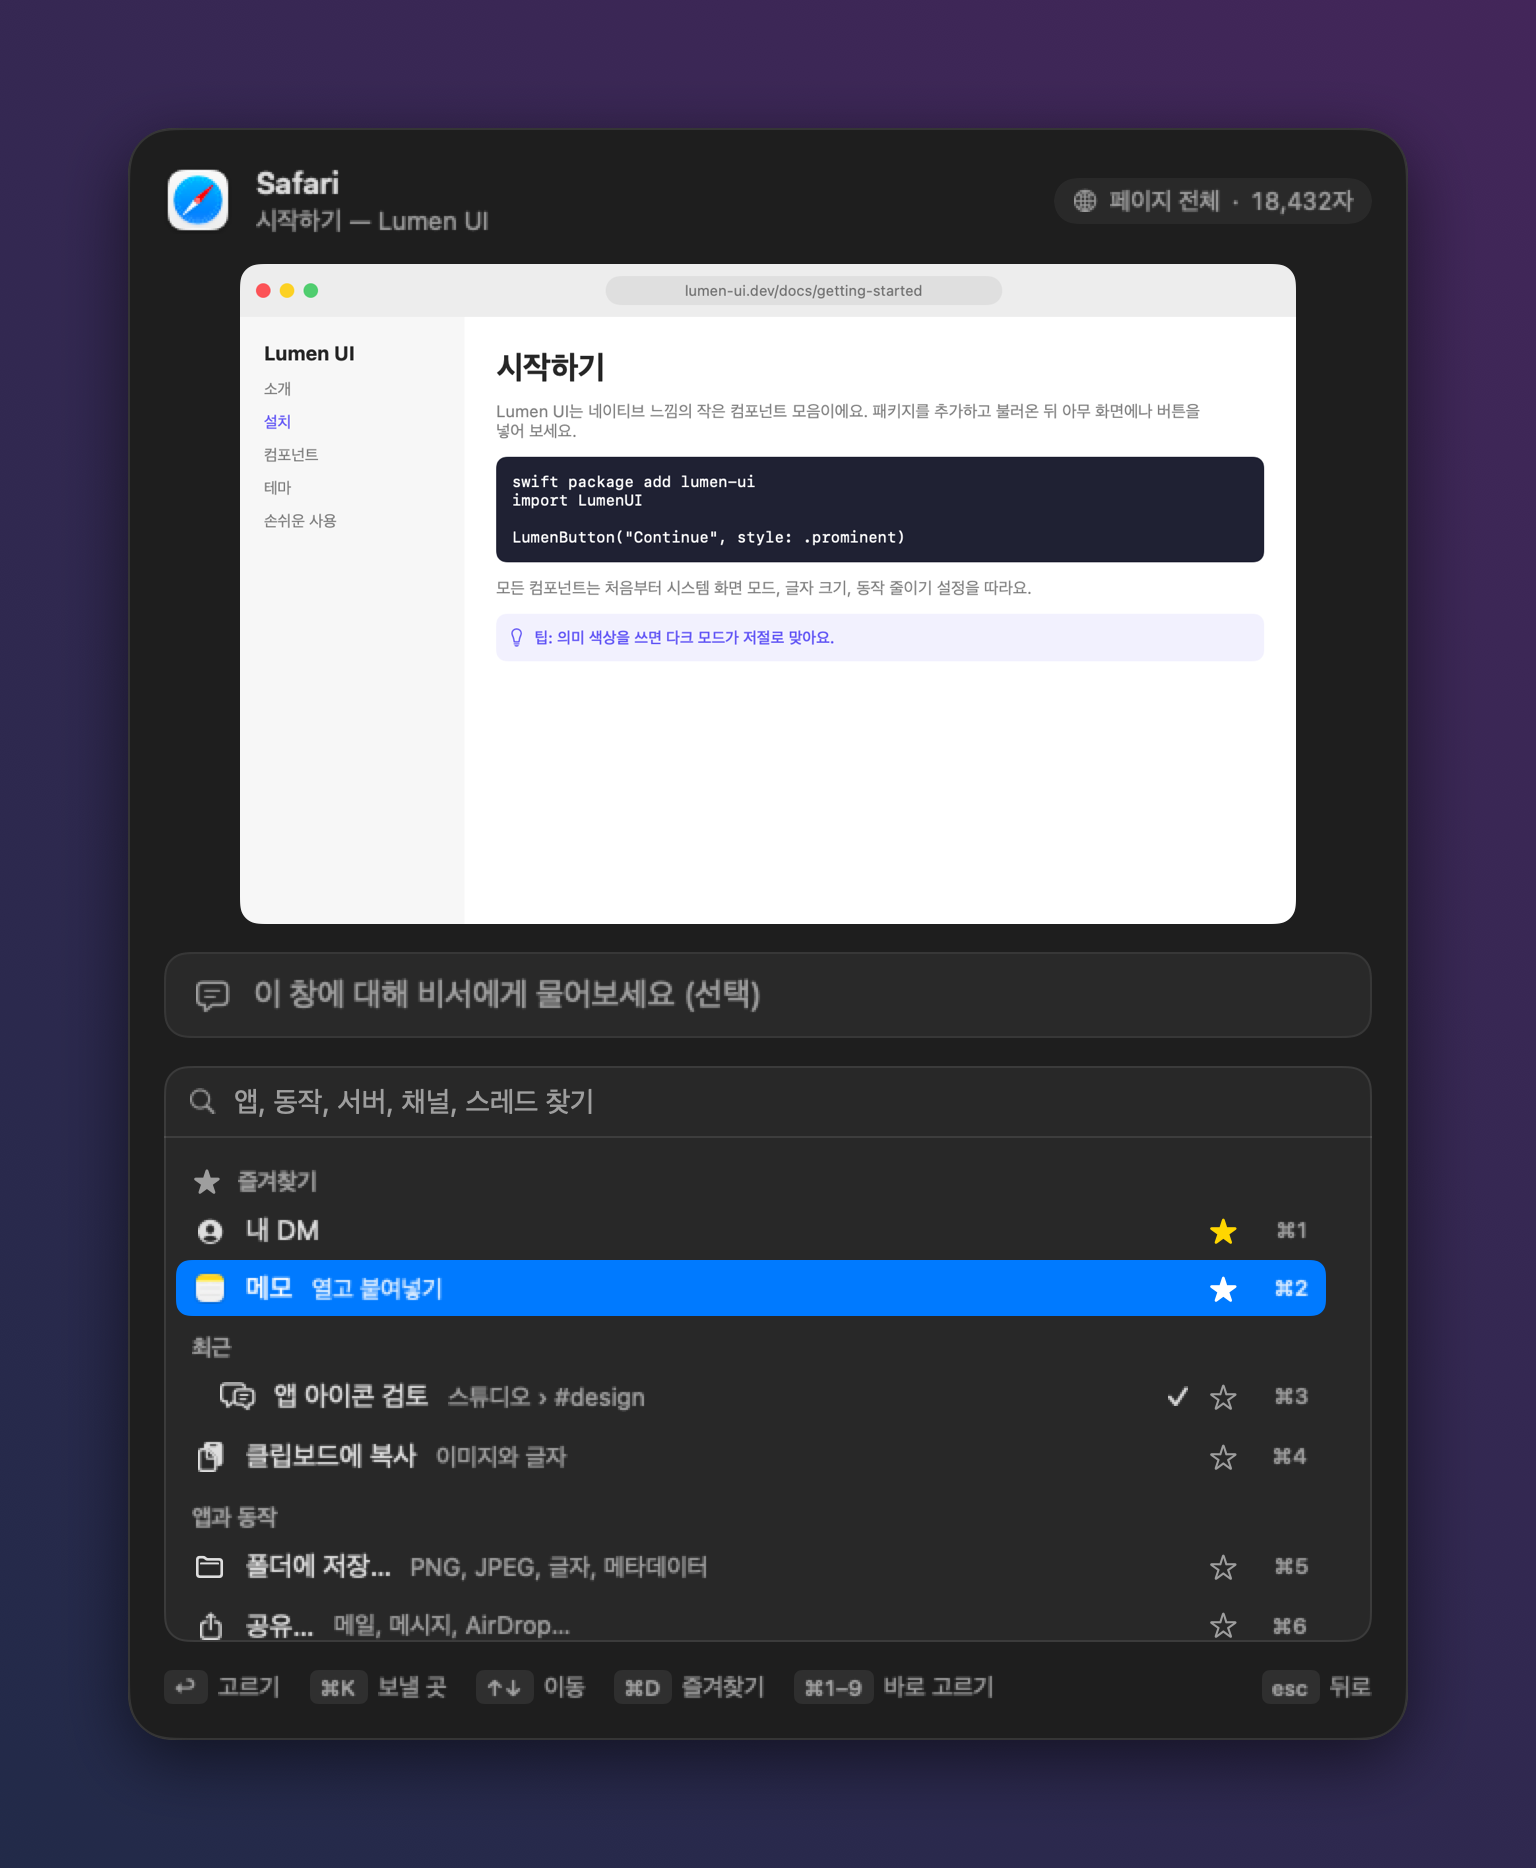
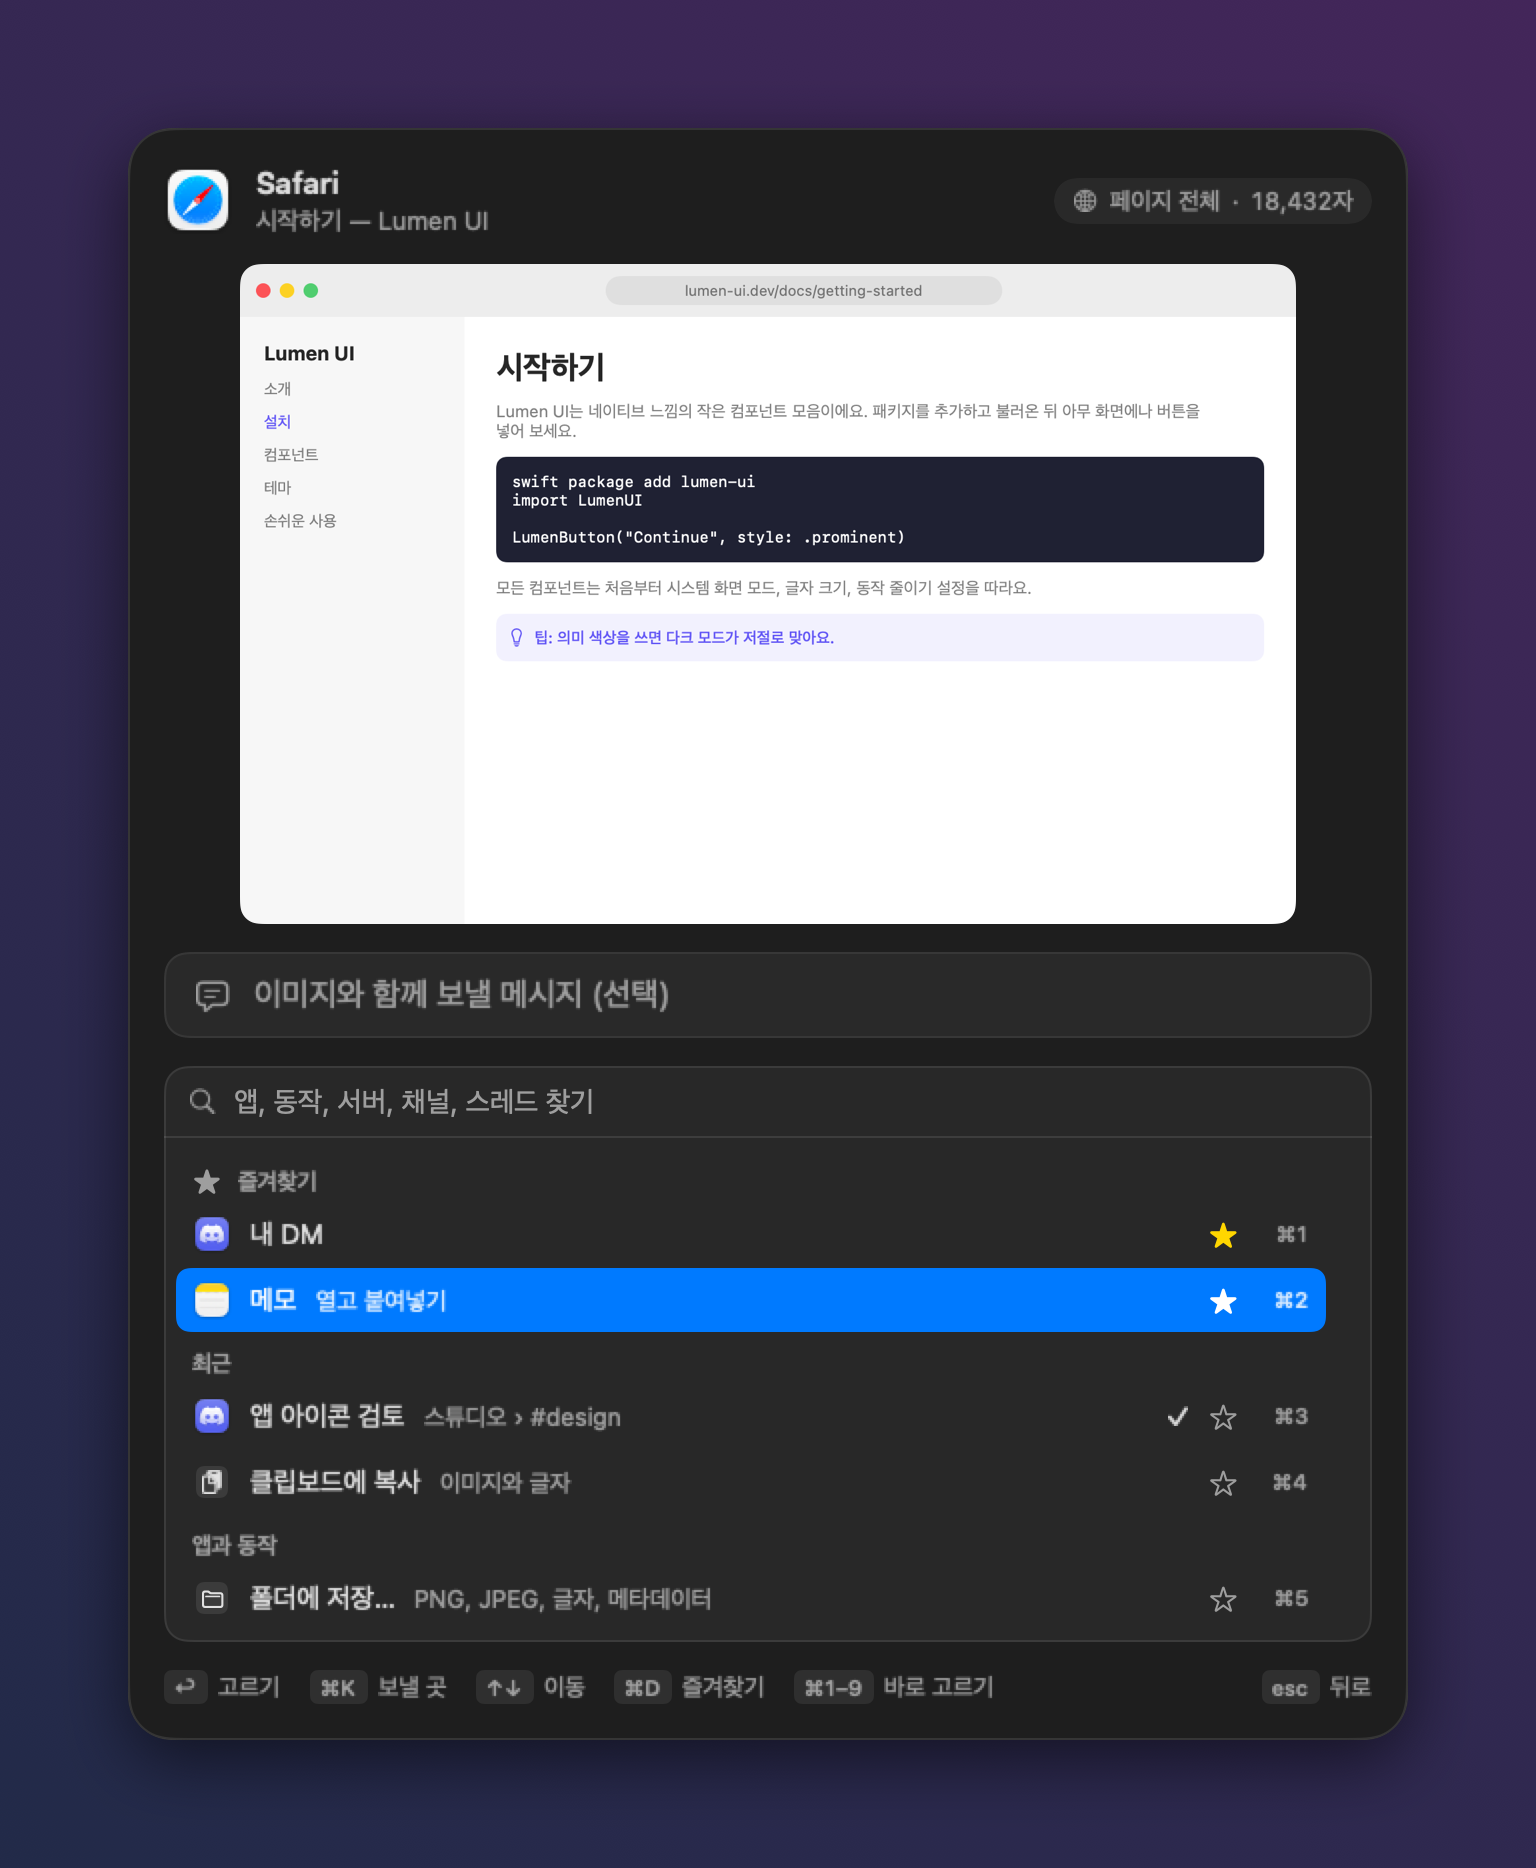
docs: describe choosing Discord servers and channels, refresh panel screenshots

diff --git a/README.md b/README.md
@@ -48,7 +48,10 @@ Pick where an appshot goes in the panel with ⌘K. Appshot remembers the last ta
 | **Share…** | Opens the macOS Share menu (Mail, Messages, AirDrop, …) with the screenshot and text. |
 | **Custom command** | Runs a shell command, opens a URL scheme, or POSTs JSON to a webhook. Placeholders: `{folder}` `{note}` `{app}` `{title}` `{url}` `{screenshot}` `{preview}` `{text}` `{channel}`. Shell values are quoted, and `APPSHOT_*` environment variables are set. |
 
-**Discord channels.** When you add the Discord app as a paste target, Appshot reads the channels the Discord app shows (through Accessibility) and lists them in the picker, grouped by server. Choosing one opens that channel in Discord and pastes there. Open a server in Discord once so its channels appear; **Settings… › Read Channels** reads them again. The list is kept in `~/Library/Application Support/Appshot/app-channels.json`.
+**Discord servers and channels.** When you add the Discord app as a paste target (**Settings… › Discord servers › Add Discord** if it's installed), Appshot reads the channels the Discord app shows through Accessibility and lists them in the picker, grouped by server, with the Discord icon. Choosing one opens that channel in Discord and pastes there. **Read All Servers** opens each server in your server sidebar for a moment, reads its channels, and returns to the channel you had open, so every server you belong to shows up, not just the one that was open. Turn whole servers or single channels off to keep them out of the panel; servers found later show up on their own. The same list covers your assistant bot's servers when the config file has a catalog. If Discord isn't installed, isn't running, or Accessibility is off, the section says what to do. Channels are kept in `~/Library/Application Support/Appshot/app-channels.json`.
+
+<p align="center"><img src="docs/discord-en-light.png" width="560" alt="Discord servers in Settings, light mode"></p>
+<p align="center"><img src="docs/discord-en-dark.png" width="560" alt="Discord servers in Settings, dark mode"></p>
 
 Turn targets on or off, add apps, and write commands in **Settings… › Send targets**. Example command: `open -a Preview {screenshot}`.
 
@@ -151,7 +154,6 @@ Machine-specific values never live in the repository. Appshot reads `~/Library/A
     { "key": "general", "label": "#general", "id": "GENERAL_CHANNEL_ID", "kind": "channel" }
   ],
   "fallbackChannel": "general",
-  "assistantName": "Assistant",
   "catalog": { "cli": "/path/to/agent-discordbot", "bot": "BOT_ALIAS", "refreshMinutes": 15 }
 }
 ```
